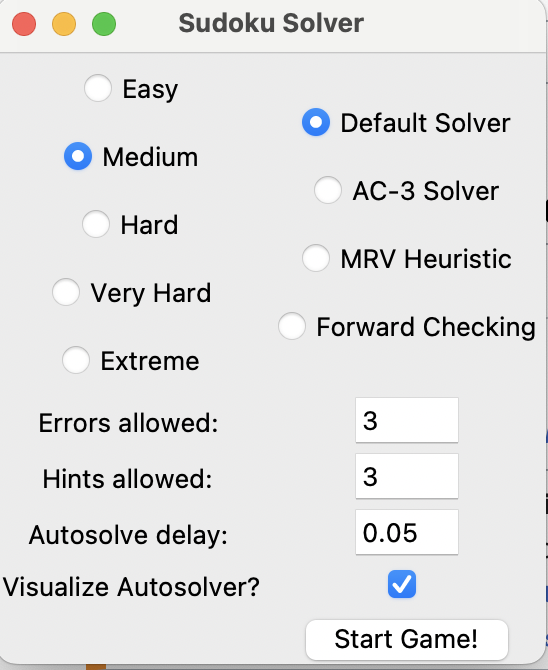
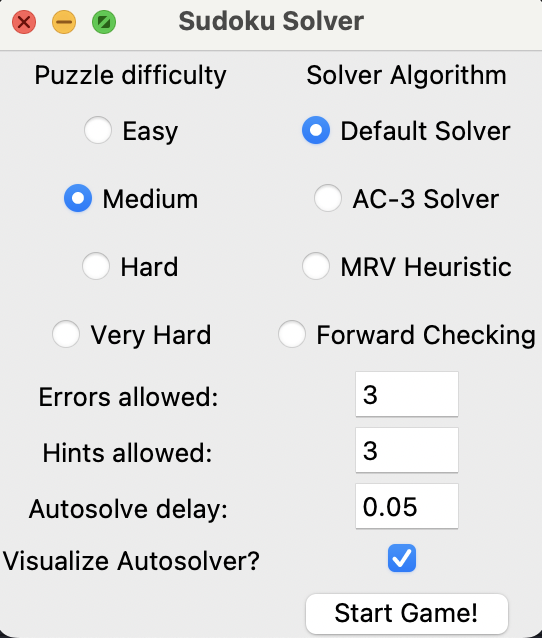
Small UI modification to make it look nicer

diff --git a/src/graphics.py b/src/graphics.py
@@ -270,6 +270,7 @@ class MenuWindow:
             'MRV Heuristic': '3',
             'Forward Checking': '4'
         }
+        label = Label(self._solver_frame, text="Solver Algorithm").pack(side="top")
         for (key, value) in options.items():
             Radiobutton(self._solver_frame, text=key, value=value,
                         variable=self._solver_selection).pack(side="top", ipady=5)
@@ -280,8 +281,8 @@ class MenuWindow:
             'Medium': '45',
             'Hard': '35',
             'Very Hard': '30',
-            'Extreme': '22'
         }
+        label = Label(self._difficulty_frame, text="Puzzle difficulty").pack(side="top")
         for (key, value) in options.items():
             Radiobutton(self._difficulty_frame, text=key, value=value,
                         variable=self._difficulty_selection).pack(side="top", ipady=5)

diff --git a/README.md b/README.md
@@ -36,7 +36,6 @@ The difficult settings are as follows:
 * Medium: 45 filled cells
 * Hard: 35 filled cells
 * Very Hard: 30 filled cells
-* Extreme: 22 filled cells
 
 ### Solver Types
 
